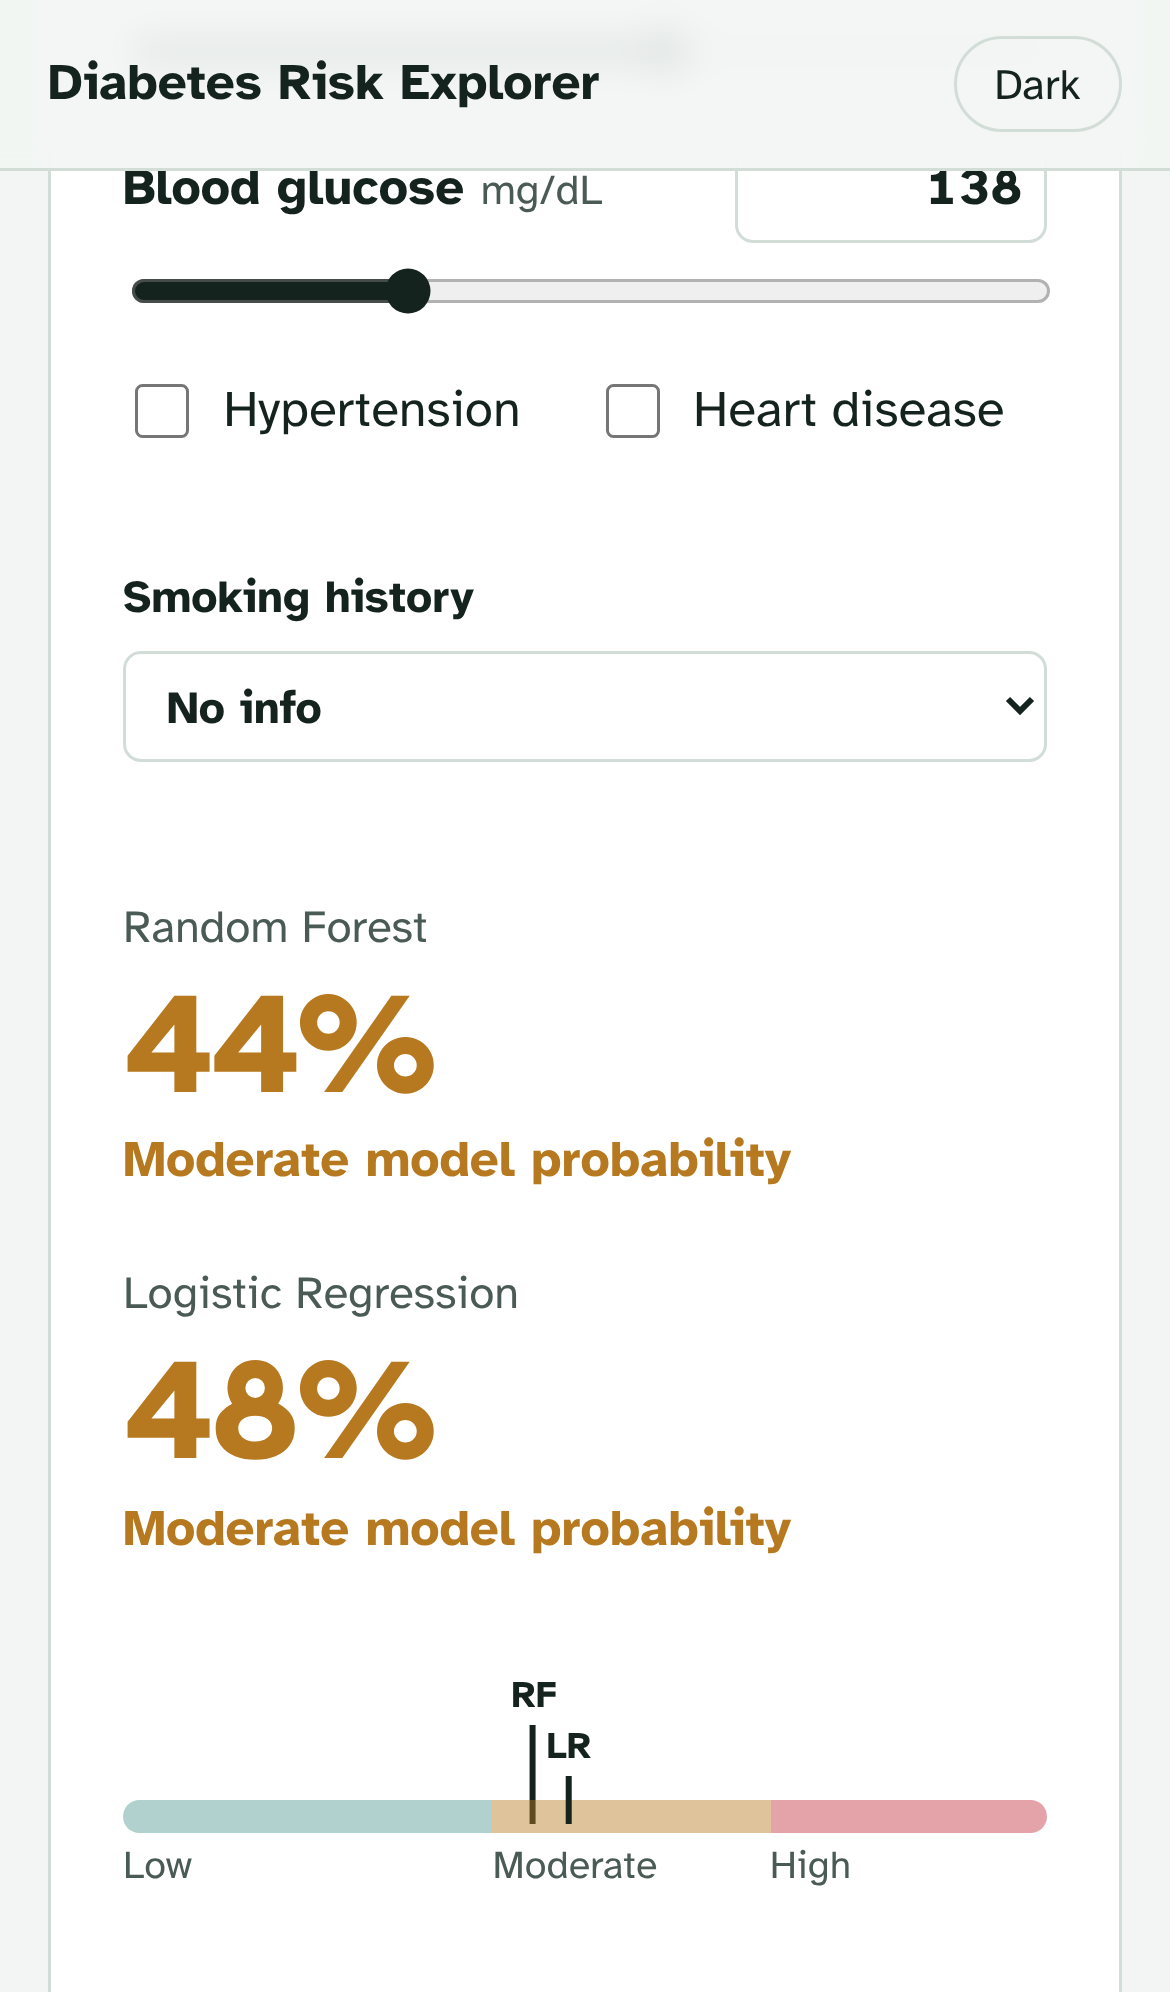
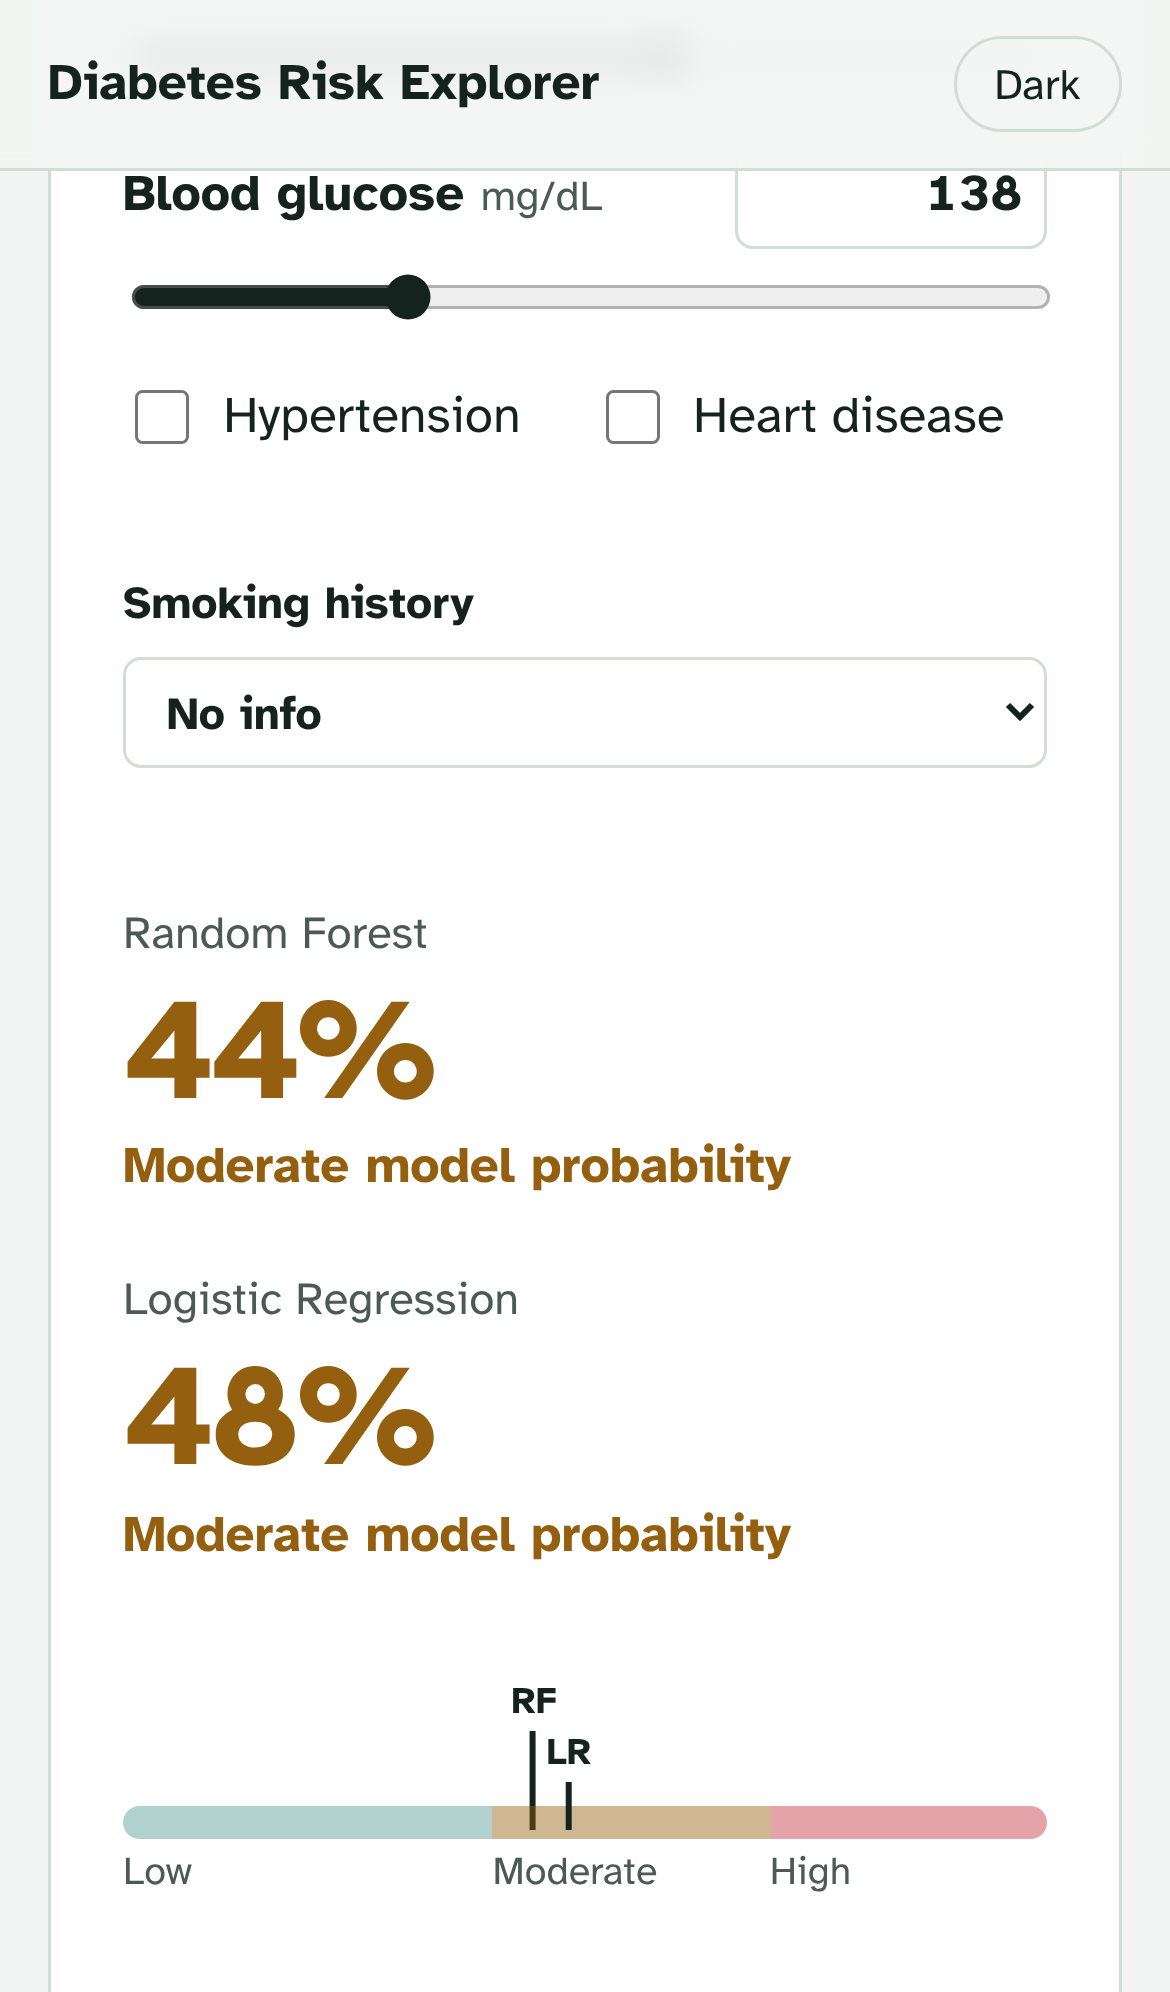
fix: address final review — honest copy, no smoking in explanation, step-aligned inputs, safer missing-value handling, accessible amber
Claude-Session: https://claude.ai/code/session_01JNQzkPTgL5QpGZvkXAatme

diff --git a/web/js/predictor.js b/web/js/predictor.js
@@ -1,5 +1,5 @@
 // Live risk estimator: builds the form and updates both models on every input.
-import { predictLR, predictRF, vectorize, riskBand, clampInput } from './models.js';
+import { predictLR, predictRF, vectorize, riskBand, clampInput, explainLR, stepAlign } from './models.js';
 import { LABELS } from './charts.js';
 
 const SLIDERS = ['age', 'bmi', 'HbA1c_level', 'blood_glucose_level'];
@@ -19,15 +19,14 @@ function el(tag, attrs = {}, ...children) {
 
 function sliderRow(feat, r, onChange) {
   const id = `in-${feat}`;
-  const start = Math.round(r.mean / r.step) * r.step;
-  const startText = start.toFixed(r.step < 1 ? 1 : 0);
-  const range = el('input', { type: 'range', id: `${id}-range`, min: r.p01, max: r.p99, step: r.step, value: startText,
+  const { lo, hi, start } = stepAlign(r);
+  const range = el('input', { type: 'range', id: `${id}-range`, min: lo, max: hi, step: r.step, value: start,
     'aria-label': `${SHORT[feat]} slider` });
-  const number = el('input', { type: 'number', id, min: r.min, max: r.max, step: r.step, value: startText, inputmode: 'decimal' });
+  // No min on the number box: browsers step from min, and the data minimum isn't a round number.
+  const number = el('input', { type: 'number', id, step: r.step, value: start, inputmode: 'decimal' });
   range.addEventListener('input', () => { number.value = range.value; onChange(); });
   number.addEventListener('input', () => {
-    const v = clampInput(number.value, r);
-    range.value = v;
+    range.value = clampInput(number.value, r);
     onChange();
   });
   number.addEventListener('change', () => { number.value = clampInput(number.value, r); onChange(); });
@@ -133,18 +132,12 @@ export function setupPredictor(data) {
     drivers.textContent = explain(p);
   }
 
-  // Which inputs push the logistic-regression score up most, relative to an average patient.
   function explain(p) {
-    const m = data.model_lr;
-    const x = vectorize(m.features, p);
-    const contrib = m.features.map((f, i) => ({ f, c: m.coef[i] * ((x[i] - m.mean[i]) / m.scale[i]) }))
-      .filter((d) => d.c > 0.15)
-      .sort((a, b) => b.c - a.c)
-      .slice(0, 2)
-      .map((d) => SHORT[d.f] ?? LABELS[d.f] ?? d.f)
+    const names = explainLR(data.model_lr, vectorize(data.model_lr.features, p))
+      .map((f) => SHORT[f] ?? LABELS[f] ?? f)
       .map((name) => (['HbA1c', 'BMI'].includes(name) ? name : name.toLowerCase()));
-    if (!contrib.length) return 'Nothing here pushes the estimate above an average patient.';
-    return `Biggest push upward: ${contrib.join(' and ')}.`;
+    if (!names.length) return 'Logistic Regression: nothing here pushes the estimate above an average patient.';
+    return `Logistic Regression: the biggest push upward comes from ${names.join(' and ')}.`;
   }
 
   render();

diff --git a/web/js/app.js b/web/js/app.js
@@ -101,13 +101,15 @@ function renderMetricsTable(models) {
 function renderFindings(d) {
   const s = d.summary;
   const m = d.models.metrics;
-  const top = Object.entries(d.models.importances).sort((a, b) => b[1] - a[1]).slice(0, 2).map(([f]) => LABELS[f]);
+  const plain = { HbA1c_level: 'HbA1c', blood_glucose_level: 'blood glucose', age: 'age', bmi: 'BMI' };
+  const top = Object.entries(d.models.importances).sort((a, b) => b[1] - a[1]).slice(0, 2)
+    .map(([f]) => plain[f] ?? LABELS[f].toLowerCase());
   const rates = d.clusters.diabetes_rate;
   const hi = rates.indexOf(Math.max(...rates));
   const other = MODEL_NAMES.find((n) => n !== s.best);
   const items = [
-    `${top[0]} and ${top[1].toLowerCase()} carry most of the predictive signal. Together they account for most of the Random Forest's feature importance.`,
-    `The ${s.best} edges out ${other} (AUC ${m[s.best].auc.toFixed(3)} vs ${m[other].auc.toFixed(3)}). Both catch about ${fmtPct(m[s.best].recall, 0)} of diabetic patients, at the cost of a fair number of false alarms (precision ${fmtPct(m[s.best].precision, 0)}).`,
+    `${top[0].charAt(0).toUpperCase()}${top[0].slice(1)} and ${top[1]} carry most of the predictive signal. Together they account for most of the Random Forest's feature importance.`,
+    `The ${s.best} edges out ${other} (AUC ${m[s.best].auc.toFixed(3)} vs ${m[other].auc.toFixed(3)}). Both catch about ${fmtPct(m[s.best].recall, 0)} of diabetic patients, but ${m[s.best].precision < 0.5 ? 'more than half of the patients it flags are false alarms' : `${fmtPct(1 - m[s.best].precision, 0)} of the patients it flags are false alarms`} (precision ${fmtPct(m[s.best].precision, 0)}). That trade-off suits screening, where a follow-up test settles it.`,
     `Group ${hi + 1} has a diabetes rate of ${fmtPct(rates[hi])}, against ${fmtPct(s.positive_rate)} overall. Clustering alone picks out a high-risk population.`,
     `${s.n_duplicates.toLocaleString()} duplicate records and ${s.n_other_gender} records with gender "Other" (too few to model) were removed before training, so test scores aren't inflated by repeated rows.`,
     'The dataset has no lifestyle, diet, family-history or genetic data, and the results have not been clinically validated.',

diff --git a/web/js/models.js b/web/js/models.js
@@ -57,3 +57,25 @@ export function clampInput(value, { min, max, mean }) {
   if (!Number.isFinite(n)) return mean;
   return Math.min(max, Math.max(min, n));
 }
+
+/** Features that push the logistic-regression score up most versus an average patient.
+ *  Smoking categories are left out: their coefficients mostly reflect who has no smoking
+ *  record (largely children) rather than an effect of smoking, so naming them misleads. */
+export function explainLR(model, x, { threshold = 0.15, limit = 2 } = {}) {
+  return model.features
+    .map((f, i) => ({ f, c: model.coef[i] * ((x[i] - model.mean[i]) / model.scale[i]) }))
+    .filter((d) => !d.f.startsWith('smoking_') && d.c > threshold)
+    .sort((a, b) => b.c - a.c)
+    .slice(0, limit)
+    .map((d) => d.f);
+}
+
+/** Slider bounds and start value aligned to the step, so arrow keys land on round values. */
+export function stepAlign({ p01, p99, mean, step }) {
+  const decimals = step < 1 ? 1 : 0;
+  const round = (v) => Number(v.toFixed(decimals));
+  const lo = round(Math.floor(p01 / step + 1e-9) * step);
+  const hi = round(Math.ceil(p99 / step - 1e-9) * step);
+  const start = round(Math.min(hi, Math.max(lo, Math.round(mean / step) * step)));
+  return { lo, hi, start };
+}

diff --git a/web/index.html b/web/index.html
@@ -89,7 +89,7 @@
         <form class="predict-form" id="predict-form" novalidate></form>
         <div class="predict-result" id="predict-result" aria-live="polite"></div>
       </div>
-      <p class="disclaimer">Educational project — not a medical device or diagnosis. Percentages are model probabilities from this dataset, not clinical risk.</p>
+      <p class="disclaimer">Educational project — not a medical device or diagnosis. Training gives diabetic cases extra weight so the models don't ignore them, which pushes every percentage up: an average patient scores well above the 9% base rate. Use the estimator to compare how inputs change the estimate, not as anyone's actual risk.</p>
     </section>
 
     <section class="block findings" aria-labelledby="findings-h">

diff --git a/web/styles.css b/web/styles.css
@@ -9,7 +9,7 @@
   --rule: #d3ddd8;
   --neg: #1f7a74;
   --pos: #c2333d;
-  --mid: #b7791f;
+  --mid: #946010;
   --c0: #1f7a74;
   --c1: #6b6fb5;
   --c2: #c2333d;

diff --git a/analysis/data.py b/analysis/data.py
@@ -9,6 +9,8 @@ import pandas as pd
 DEFAULT_PATH = Path(__file__).resolve().parents[1] / "data" / "sample.csv"
 
 NUMERIC = ["age", "hypertension", "heart_disease", "bmi", "HbA1c_level", "blood_glucose_level"]
+BINARY = ["hypertension", "heart_disease"]
+CONTINUOUS = [c for c in NUMERIC if c not in BINARY]
 
 # Raw smoking value -> one-hot column. "No Info" is the baseline (all zeros).
 SMOKING_LEVELS = {
@@ -58,9 +60,13 @@ def load_dataset(path: str | Path = DEFAULT_PATH) -> Dataset:
     other = df["gender"] == "Other"
     n_other = int(other.sum())
     df = df[~other].copy()
-    num = NUMERIC + ["diabetes"]
-    df[num] = df[num].fillna(df[num].mean())
-    df["smoking_history"] = df["smoking_history"].fillna("No Info")
+    # Rows without an outcome can't be used for training or evaluation.
+    df = df.dropna(subset=["diabetes"])
+    df["diabetes"] = df["diabetes"].astype(int)
+    for col in BINARY:
+        df[col] = df[col].fillna(df[col].mode().iloc[0]).astype(int)
+    df[CONTINUOUS] = df[CONTINUOUS].fillna(df[CONTINUOUS].mean())
+    df["smoking_history"] = df["smoking_history"].where(df["smoking_history"].isin(SMOKING_LABELS), "No Info")
     df = df.reset_index(drop=True)
     return Dataset(
         raw=df,

diff --git a/tests/test_data.py b/tests/test_data.py
@@ -48,3 +48,18 @@ def test_load_handles_missing_values(tmp_path):
     ds = load_dataset(csv)
     assert not ds.X.isna().any().any()
     assert ds.X["bmi"].iloc[0] == 25.0
+
+
+def test_missing_target_dropped_and_binary_stays_binary(tmp_path):
+    csv = tmp_path / "d.csv"
+    csv.write_text(
+        "gender,age,hypertension,heart_disease,smoking_history,bmi,HbA1c_level,blood_glucose_level,diabetes\n"
+        "Female,50,0,0,never,30,6.0,140,\n"
+        "Male,30,,0,current,25.0,5.0,100,0\n"
+        "Male,60,1,0,former,28.0,6.5,180,1\n"
+        "Female,40,0,1,never,22.0,5.5,120,0\n"
+    )
+    ds = load_dataset(csv)
+    assert len(ds.raw) == 3
+    assert set(ds.raw["diabetes"]) <= {0, 1}
+    assert set(ds.X["hypertension"]) <= {0.0, 1.0}

diff --git a/README.md b/README.md
@@ -37,7 +37,7 @@ On a held-out test set of 19,226 patients (stratified 80/20 split):
 | F1 | **0.622** | 0.574 |
 | Accuracy | **0.906** | 0.885 |
 
-Only 8.8% of patients are diabetic, so the best model is chosen by ROC-AUC rather than accuracy. Both models use balanced class weights. They catch most diabetic patients at the cost of some false alarms, which is a sensible trade-off for a screening-style tool. HbA1c and blood glucose carry most of the predictive signal.
+Only 8.8% of patients are diabetic, so the best model is chosen by ROC-AUC rather than accuracy. Both models use balanced class weights. They catch most diabetic patients, but more than half of the patients they flag are false alarms (precision below 50%). That trade-off suits screening, where a follow-up test settles it. Because of the class weighting, the predicted percentages run high (an average patient scores well above the 8.8% base rate), so the live estimator is for comparing how inputs move the estimate, not for reading off anyone's actual risk. HbA1c and blood glucose carry most of the predictive signal.
 
 ## Data preparation
 
@@ -46,7 +46,7 @@ The dataset (`data/sample.csv`) has 100,000 records with gender, age, hypertensi
 - **3,854 exact duplicate rows are removed** before splitting, so identical records can't appear in both the training and test sets and inflate scores.
 - **18 records with gender "Other" are excluded.** That's too few to learn anything reliable from.
 - **Smoking history is one-hot encoded**, with "No info" as the baseline. Earlier versions used an arbitrary 0–5 number, which implied a false ordering.
-- Missing numeric values in a replacement dataset are filled with the column mean.
+- In a replacement dataset, rows with no diabetes outcome are dropped, missing yes/no values (hypertension, heart disease) take the most common value, missing continuous values take the column mean, and unknown smoking values count as "No info".
 
 ## Project structure
 
@@ -105,7 +105,7 @@ your-site/
     diabetes/   ← contents of web/
 ```
 
-It then works at `https://your-site/projects/diabetes/`. Any static host works (plain HTML hosting, GitHub Pages, Netlify and so on).
+It then works at `https://your-site/projects/diabetes/`. Link to it with the trailing slash, since some hosts don't add it automatically and the page's relative paths need it. Any static host works (plain HTML hosting, GitHub Pages, Netlify and so on).
 
 ## How the browser predictions work
 
